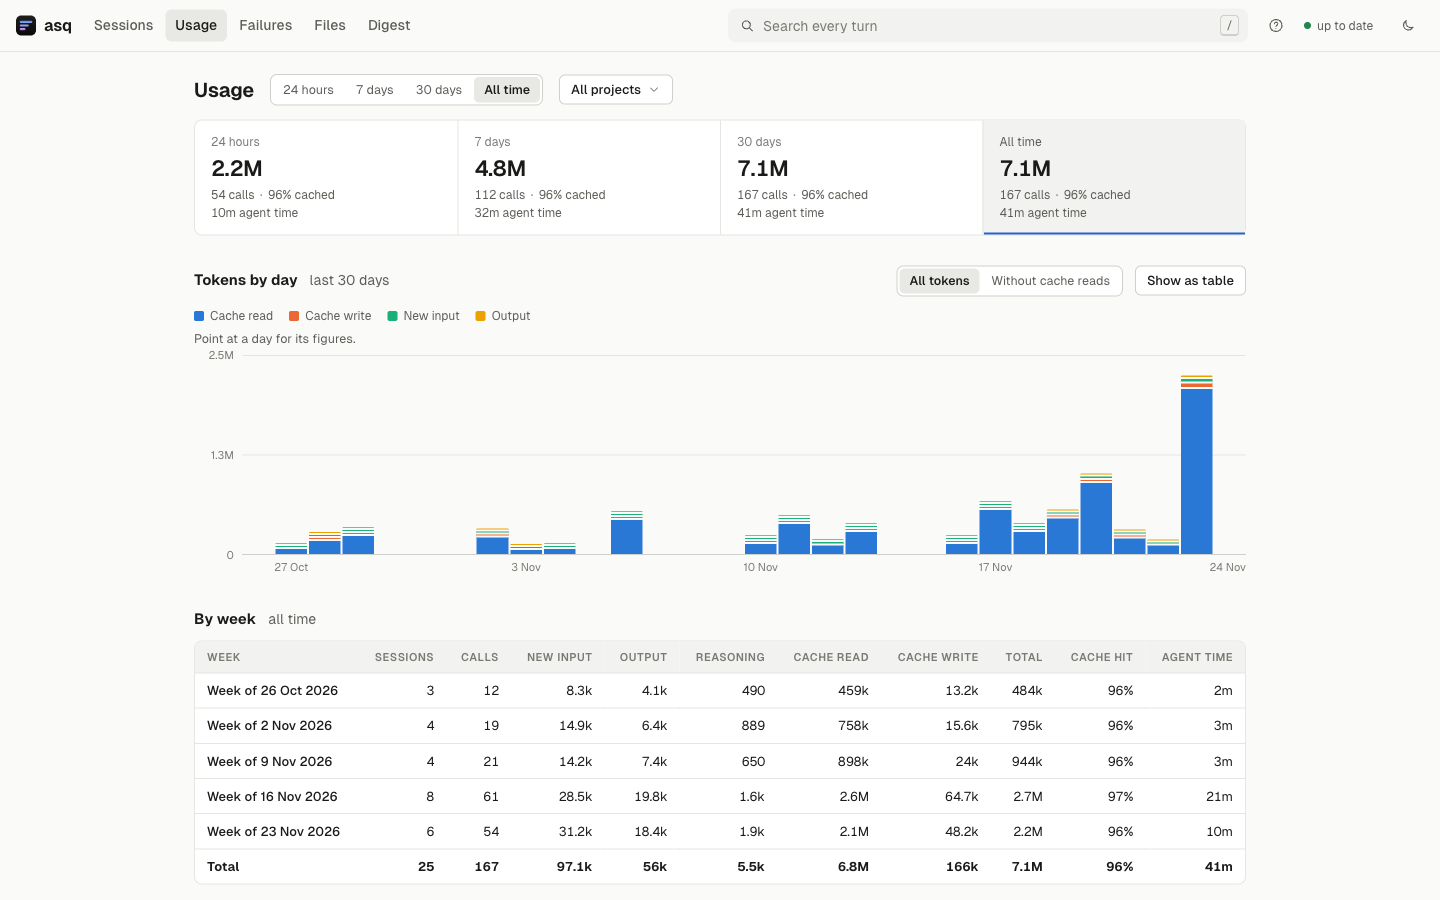
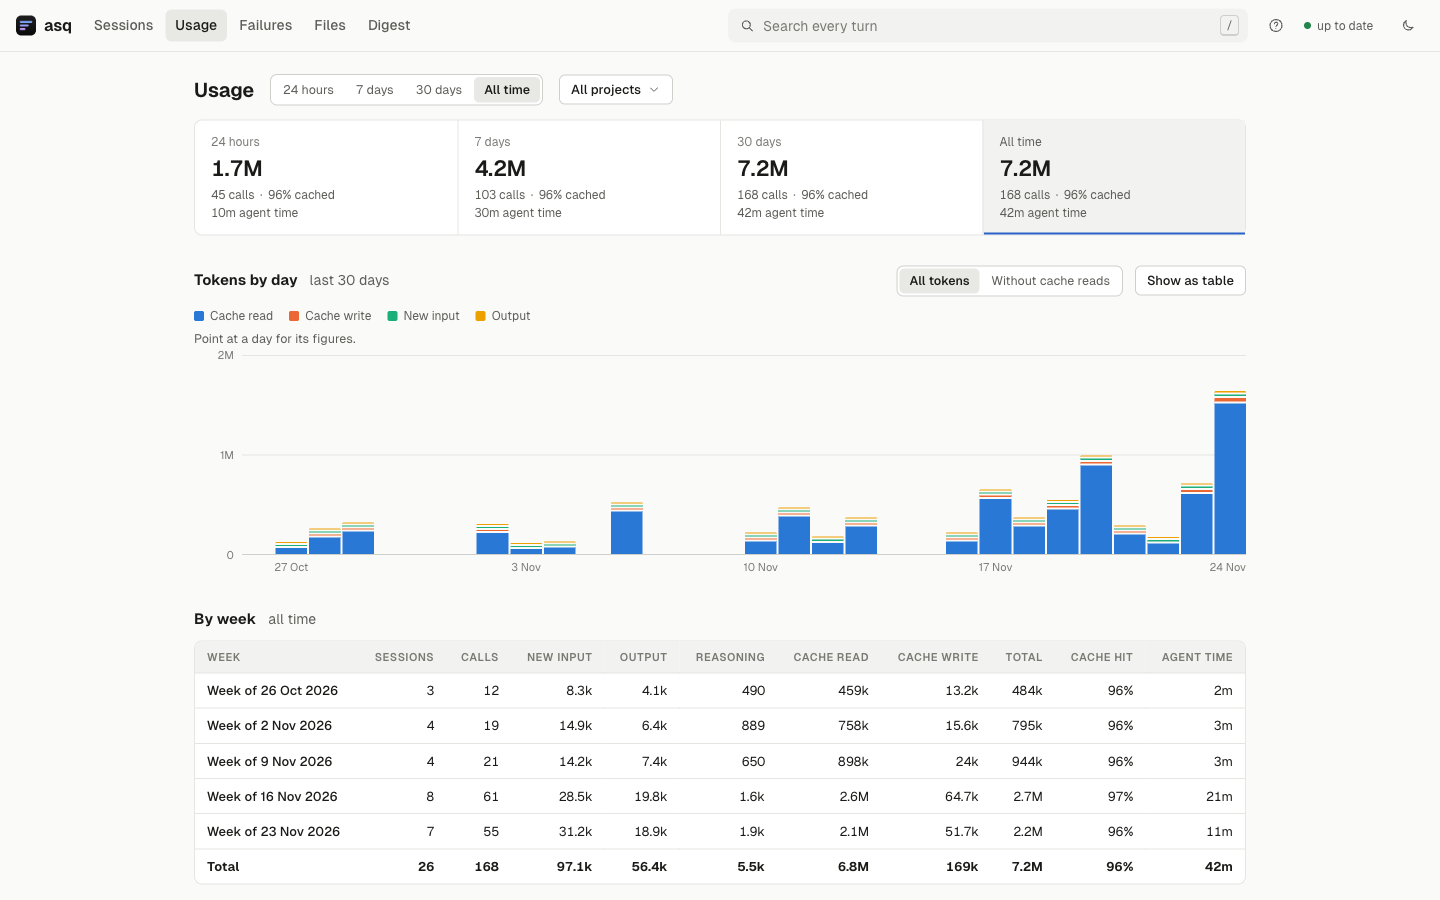
docs: the screenshots, retaken, with a turn that ended on an error
gen.py writes one more session today, put after every other and drawn
from the generator's state then put back, so that the others keep their
ids and times: a Claude Code turn whose request the provider turned away
(API Error: 529), which ends on that error. shots.js clears the browser's
look from /healthz rather than the page, which wrote its look back as it
left and marked every session new.

diff --git a/docs/screenshots/make/shots.js b/docs/screenshots/make/shots.js
@@ -12,9 +12,10 @@ async (page) => {
     await p.getByText('up to date').waitFor({ state: 'attached' });
   };
   await page.setViewportSize({ width: 1440, height: 900 });
-  await page.goto(BASE + '/');
   // No theme chosen before, and no look before: a browser that has seen this history
-  // would mark what changed since, and the pictures are of a first visit
+  // would mark what changed since, and the pictures are of a first visit. Cleared from a
+  // page of the server's that is not the page, which would write its look back as it left
+  await page.goto(BASE + '/healthz');
   await page.evaluate(() => localStorage.clear());
   const shot = async (url, file) => {
     await page.goto(BASE + url);

diff --git a/docs/screenshots/make/gen.py b/docs/screenshots/make/gen.py
@@ -220,6 +220,14 @@ class Claude:
             'toolUseResult': {'durationMs': int((self.t - start).total_seconds() * 1000)}})
         self.fresh += tok(report) + 30
 
+    def api_error(self, text):
+        """The CLI giving up on the model, once its retries are spent: its words in the model's place."""
+        self.wait(25, 45)
+        self._row('assistant', {'message': {'id': uid(), 'type': 'message', 'role': 'assistant', 'model': '<synthetic>',
+                                            'content': [{'type': 'text', 'text': text}], 'stop_reason': 'stop_sequence',
+                                            'stop_sequence': '', 'usage': {'input_tokens': 0, 'output_tokens': 0}},
+                                'isApiErrorMessage': True})
+
     def reply(self, text, think=None):
         content = []
         if think:
@@ -1928,6 +1936,18 @@ s.bash('pnpm vitest run test/pages test/components test/charts', ' Test Files  1
 s.reply('Renamed in three places: the page heading, the nav link and the chart\'s accessible name. `SpendRow` in `src/api/types.ts` is left as it is, as asked. Tests pass.')
 s.save()
 put(DA, 'src/components/Nav.tsx', "export const links = [\n  { href: '/', label: 'Invoices' },\n  { href: '/usage', label: 'Usage' },\n];")
+
+# Today: a turn the model's provider turned away, which ends on that error. Drawn from the
+# generator's state and then put back, so that every session above keeps its ids and times
+before = rnd.getstate()
+s = Claude(UP, 'main', 'TestRetryAfter flakes on CI')
+s.ask('TestRetryAfter fails on CI about one run in ten. Find out why.', at=ago(47))
+s.bash('go test -run TestRetryAfter -count=50 ./internal/upload/',
+       '--- FAIL: TestRetryAfter (1.00s)\n    client_test.go:88: waited 998ms, want at least 1s\nFAIL\nFAIL\tuploader/internal/upload\t9.214s',
+       'Run the test fifty times', error=True, dur=9.3, think='Reproduce it first: fifty runs should catch one in ten.')
+s.api_error('API Error: 529 {"type":"error","error":{"type":"overloaded_error","message":"Overloaded"}}')
+s.save()
+rnd.setstate(before)
 
 # ================================================================ the files on disk
 write_files()

diff --git a/docs/development.md b/docs/development.md
@@ -236,8 +236,8 @@ under, and why, are in [The page](ui.md).
 The page's screenshots in `docs/screenshots/` are of a synthetic history: nothing in them is
 anyone's. `docs/screenshots/make/gen.py` writes it — a Claude Code store and a Codex store under
 `/tmp/demo`, and the projects they worked in under `/tmp/work`, both emptied first — with times
-relative to now, files whose modification times give the Files view each of its states, and
-failures that pass later. Then serve it and take the pictures:
+relative to now, files whose modification times give the Files view each of its states,
+failures that pass later, and a turn that ended on an error. Then serve it and take the pictures:
 
 ```sh
 python3 docs/screenshots/make/gen.py
